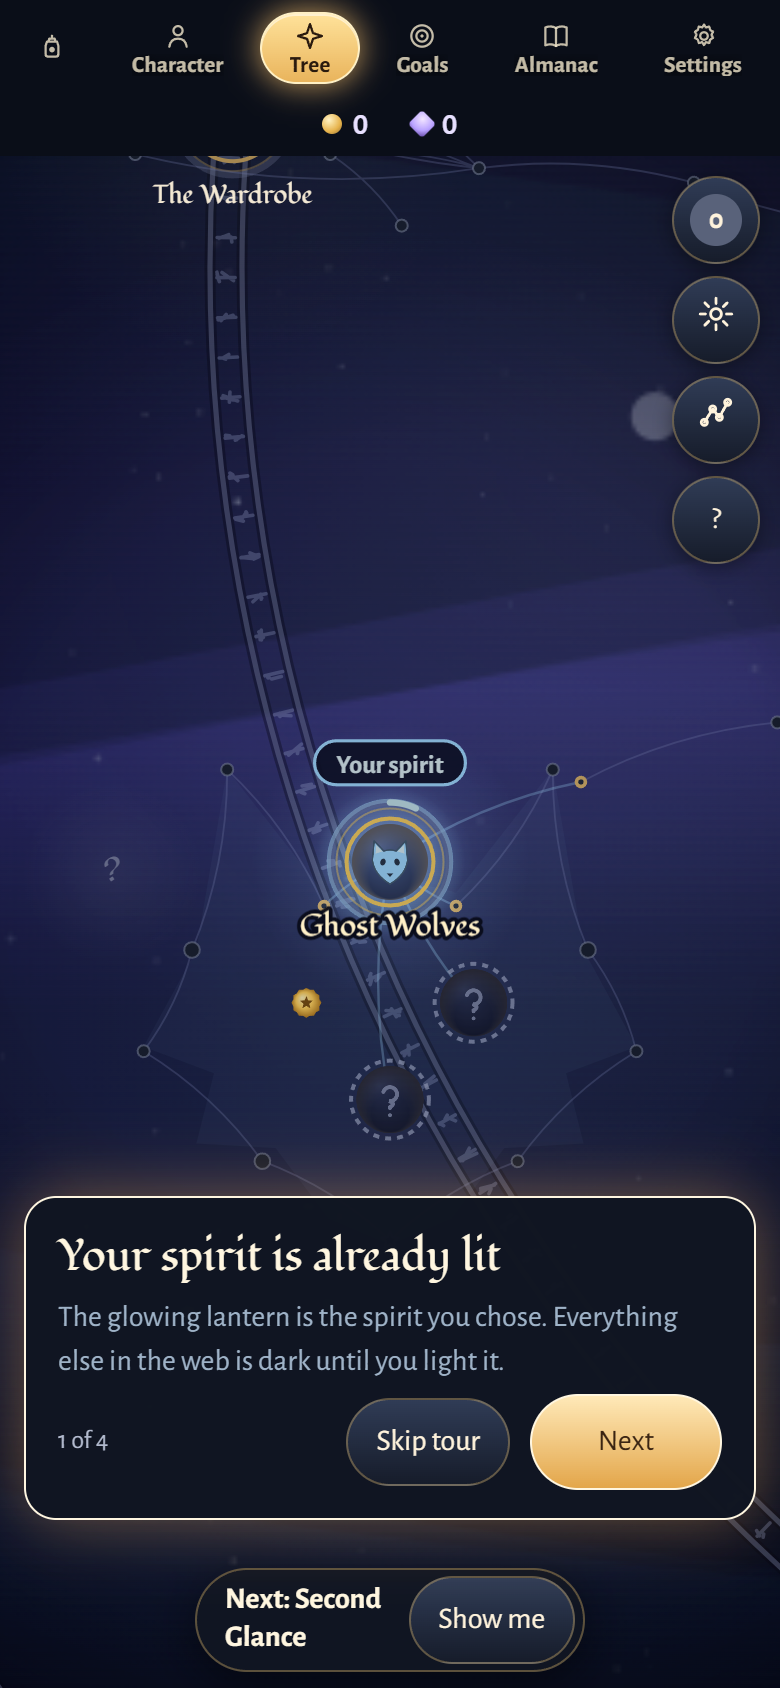
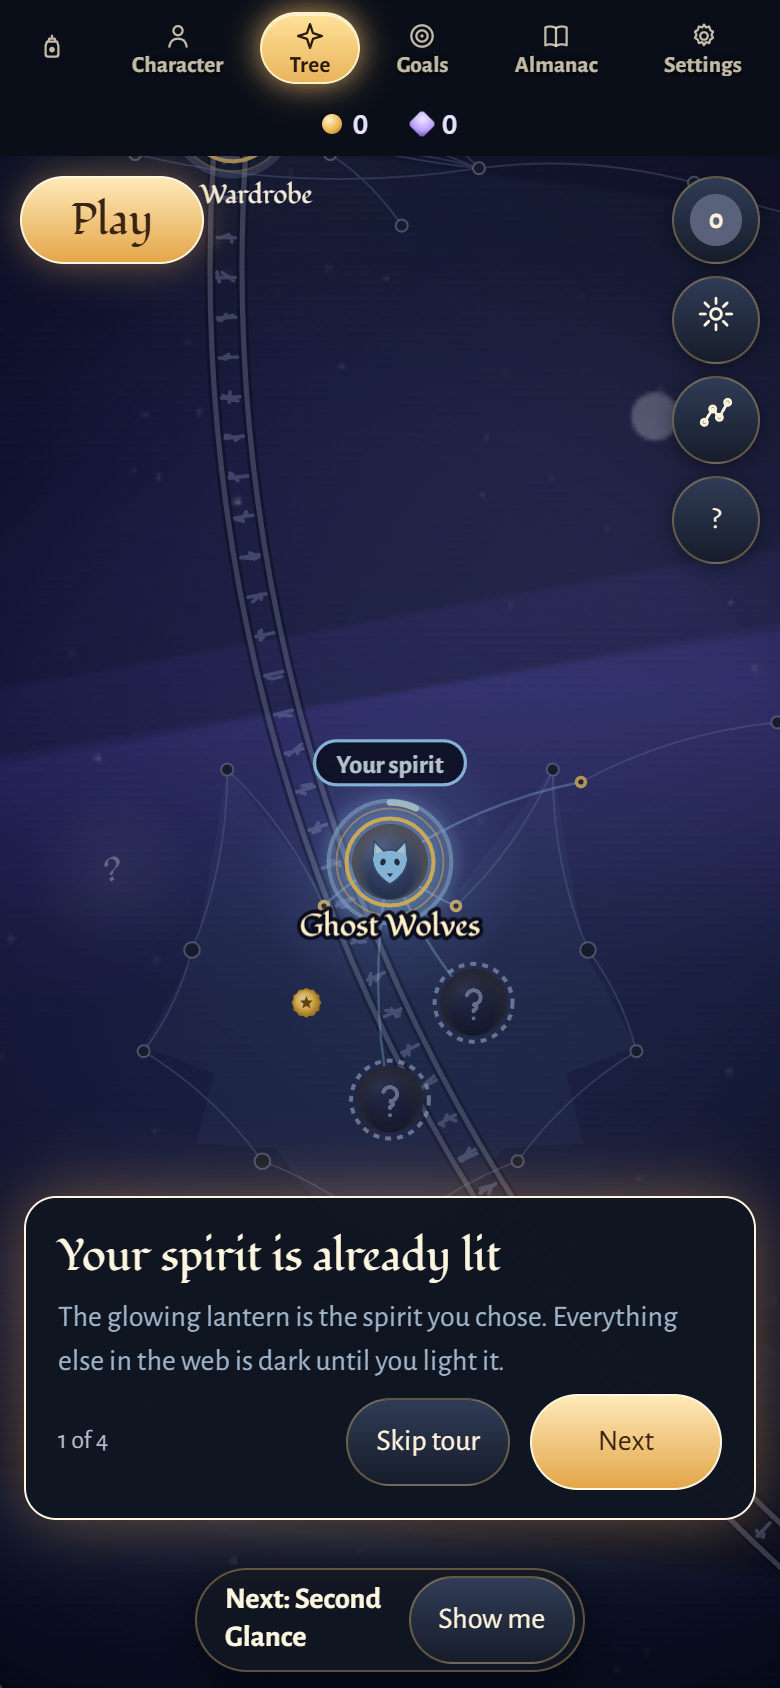
Q8: a11y + phone Play pill + save race fix: sr summary line, focus order, CVD and hostile sweeps, a11y smoke, real-phone checklist

Changed region(s): [[0.0, 0.0924, 0.2769, 0.1848]]

diff --git a/src/ui/treescreen.js b/src/ui/treescreen.js
@@ -126,7 +126,7 @@ export class TreeScreen {
     this.resetNotice();
     this.pulseStart(api.pulseIds);
     if (!this.tourStart() && !(this.pulseSet && this.pulseSet.size)) this.showTip(false); // coming back from a run: the moved lanterns are the message, no welcome card
-    this.mapEl.focus({ preventScroll: true });
+    if (!this.tourOpen) this.mapEl.focus({ preventScroll: true }); // the tour's Next button keeps the focus while the tour is up (keyboard users press Enter)
   }
 
   close() {
@@ -316,6 +316,8 @@ export class TreeScreen {
     this.toastEl.setAttribute('role', 'status');
     this.noticeEl = el('div', 'ts-notice'); // the one-time 'the web was rewoven' notice (S1 restart); filled by resetNotice()
     this.noticeEl.setAttribute('role', 'status');
+    this.sumEl = el('div', 'ts-sr'); // the state of the web in one line for screen readers (re-read only when it changes)
+    this.sumEl.setAttribute('role', 'status'); this.sumEl.setAttribute('aria-live', 'polite');
     this.srEl = el('div', 'ts-sr');
     this.srEl.setAttribute('aria-live', 'polite');
 
@@ -337,8 +339,10 @@ export class TreeScreen {
     const nl = el('div', 'ts-nl'); nl.append(el('span', null, 'Next'), el('span', null, 'lights'));
     this.nextList = el('div', 'ts-nlist');
     this.nextEl.append(nl, this.nextList);
-    root.append(this.buildHeroPanel(), this.nextEl);
-    root.append(map, panel, step, this.edge, zoom, this.scrim, idxSheet, helpSheet, tip, this.toastEl, this.noticeEl, this.tourEl, this.srEl, this.hoverEl, keys);
+    this.playBtn = btn('ts-primary ts-playbtn', 'Play'); // phones and narrow windows have no hero panel: Play is a pill at the top left (same loadout flow)
+    this.playBtn.addEventListener('click', () => { if (this.host.sound) this.host.sound('ui_step'); this.host.navTo('play'); });
+    root.append(this.buildHeroPanel(), this.playBtn);
+    root.append(map, panel, this.nextEl, step, this.edge, zoom, this.scrim, idxSheet, helpSheet, tip, this.toastEl, this.noticeEl, this.tourEl, this.sumEl, this.srEl, this.hoverEl, keys);
     layer.append(root);
     this.bindInput(map);
   }
@@ -388,6 +392,7 @@ export class TreeScreen {
     this.glassEl.p.style.display = (s.dawnglass || 0) > 0 ? '' : 'none';
     const a = this.model.readyList().length;
     this.lightN.textContent = String(a);
+    this.sumLine(a);
     this.lightN.classList.toggle('zero', !a);
     this.nextBtn.setAttribute('aria-label', `${a} lantern${a === 1 ? '' : 's'} you can light now. Show the best one`);
     this.respecBtn.disabled = !Object.keys(s.tree || {}).some((id) => this.def.nodes[id] && !this.def.nodes[id].permanent);
@@ -398,6 +403,15 @@ export class TreeScreen {
     if (this.selected) this.renderPanel();
     this.itemSig = '';
     this.dirty();
+  }
+
+  /** 'N lanterns lit of T, M can light now': one polite line, only re-announced when the numbers change. */
+  sumLine(ready) {
+    const m = this.model; let lit = 0, tot = 0;
+    for (const id of this.def.list) { if (this.def.nodes[id].teaser) continue; tot++; if (m.lit(id)) lit++; }
+    const txt = `${fmtN(lit)} of ${fmtN(tot)} lanterns lit, ${fmtN(ready)} can light now.`;
+    if (txt !== this.sumTxt) { this.sumTxt = txt; this.sumEl.textContent = txt; }
+    this.mapEl.setAttribute('aria-describedby', 'ts-sum-line'); this.sumEl.id = 'ts-sum-line';
   }
 
   // ------------------------------------------------------------------ camera

diff --git a/src/ui/treescreen.css b/src/ui/treescreen.css
@@ -178,13 +178,13 @@
 .ts-hl { font: 17px var(--font-display); color: #cdbf95; }
 .ts-hcv { width: 200px; height: 215px; margin-top: -4px; border-radius: 16px; }
 .ts-swap { display: flex; gap: 8px; margin-top: -4px; }
-.ts-swapb { width: 40px; height: 40px; min-width: 40px; min-height: 40px; padding: 0; border-radius: 50%; border: 2px solid #3b4670; background: #171d3c; overflow: hidden; position: relative; }
+.ts-swapb { width: 44px; height: 44px; min-width: 44px; min-height: 44px; padding: 0; border-radius: 50%; border: 2px solid #3b4670; background: #171d3c; overflow: hidden; position: relative; }
 .ts-swapb.on { border-color: #ffd27a; box-shadow: 0 0 10px rgba(255, 210, 122, .5); }
 .ts-swapb.asleep { opacity: .7; cursor: default; }
 .ts-swapb canvas { width: 100%; height: 100%; display: block; }
 .ts-hname { font: 36px/1 var(--font-display); color: #fff1cf; }
 .ts-hsub { font-size: 13px; color: #d6b36a; margin-bottom: 4px; }
-.ts-hbtn { width: 100%; padding: 9px 0; min-height: 40px; border-radius: 11px; border: 1px solid rgba(255, 210, 122, .3); background: linear-gradient(#232b52, #161c3b); font-weight: 600; font-size: 14px; }
+.ts-hbtn { width: 100%; padding: 9px 0; min-height: 44px; border-radius: 11px; border: 1px solid rgba(255, 210, 122, .3); background: linear-gradient(#232b52, #161c3b); font-weight: 600; font-size: 14px; }
 .ts-hbtn.ts-hplay { background: linear-gradient(#ffd98a, #f1a94d); color: #3a2308; font: 24px var(--font-display); padding: 6px 0; border-color: #ffe6ae; }
 .ts-hcoins { margin-top: auto; display: flex; justify-content: space-around; width: 100%; padding: 9px 6px; border-radius: 14px; border: 1px solid var(--ts-line); background: rgba(8, 12, 28, .7); font-weight: 700; }
 .ts-hc { display: inline-flex; align-items: center; gap: 6px; }
@@ -215,7 +215,7 @@
 .ts-ctext { flex: 1; min-width: 0; font-size: 14px; }
 .ts-ctext b { display: block; font-weight: 700; }
 .ts-ctext span { color: #cfd7f3; font-size: 13px; }
-.ts-clink { min-height: 36px; padding: 4px 10px; font-size: 13px; }
+.ts-clink { min-height: 44px; padding: 4px 12px; font-size: 13px; }
 .ts-tour { position: absolute; z-index: 12; left: 50%; bottom: 96px; transform: translateX(-50%); width: min(460px, calc(100% - 24px)); background: var(--ts-panel); border: 1px solid var(--ts-wick); border-radius: 16px; padding: 14px 16px; box-shadow: 0 0 34px #ffb35a66; display: none; }
 .ts-tour.open { display: block; }
 .ts-tourh { font: 22px var(--font-display); color: var(--ts-wick); margin-bottom: 4px; }
@@ -227,3 +227,7 @@
 .ts.ts-calm .ts-tourhl { animation: none; }
 @keyframes ts-tourpulse { 50% { outline-color: #fff1c4; } }
 .ts.ts-port .ts-tour, .ts.ts-short .ts-tour { bottom: 84px; }
+
+/* Play on small screens (the hero panel, with its own Play, is desktop only) */
+.ts-playbtn { display: none; }
+.ts:not(.ts-hero-on) .ts-playbtn { display: flex; align-items: center; justify-content: center; position: absolute; left: calc(10px + var(--sa-l, 0px)); top: 10px; z-index: 6; flex: none; min-width: 92px; min-height: 44px; padding: 4px 22px; font: 22px var(--font-display); box-shadow: 0 0 18px #ffb35a66; }

diff --git a/src/ui/ui.js b/src/ui/ui.js
@@ -83,7 +83,7 @@ export class UI {
     this.tree = new TreeScreen(this, portraitImage, enemyPortrait);
     this.buildHud();
     this.nav = null;
-    if (root && root.appendChild && typeof document !== 'undefined' && document.createElement) { this.nav = buildMenuNav(document, (id) => this.navTo(id)); root.appendChild(this.nav.root); }
+    if (root && root.appendChild && typeof document !== 'undefined' && document.createElement) { this.nav = buildMenuNav(document, (id) => this.navTo(id)); root.insertBefore(this.nav.root, root.firstChild || null); } // first in the page: the tab row is the first thing a keyboard or screen-reader user meets, as it is the first thing on screen
     window.addEventListener('keydown', (e) => this.onKey(e));
     window.addEventListener('keydown', (e) => this.onDeskKey(e)); // DESKTOP D5: 1-6 tabs, F full screen (through the key map)
   }

diff --git a/src/save/store.js b/src/save/store.js
@@ -65,7 +65,7 @@ export class SaveStore {
     else if (rb && rb.code === 'future') this._lock(bak);
     else if (rb && rb.ok) res = rb;
     this.data = res ? res.save : defaultSave();
-    this.stamp = this.data.updatedAt;
+    this.stamp = res ? this.data.updatedAt : 0; // a fresh default copy was never read from storage: ANY stored copy is newer than it (two tabs opened in the same millisecond used to tie on the default's creation time)
     if (this.forceReadOnly && !this.readOnly) this._lock(main !== null ? main : bak);
     return this.data;
   }

diff --git a/docs/REAL-PHONE-CHECKLIST.md b/docs/REAL-PHONE-CHECKLIST.md
@@ -1,0 +1,47 @@
+# Real-phone checklist: the Lantern Web (tree home) and what-moved screens
+
+For Matt, on a real phone, test link = the dev build (dev.hollowlight-12n.pages.dev, unlisted). Ten minutes, one pass. Tick, write what felt wrong in one line.
+What the computer already checked (headless, so not a substitute): every button in the tree and the tour is at least 44 px, Tab / keyboard path, Calm loop stops, 0 console errors, tree draw 1.3 ms desktop (9 ms with a 4x slowed CPU).
+
+## 0. Before you start
+- [ ] Note the phone model, browser, battery %, and whether Battery Saver is on.
+- [ ] Use a lantern with some progress (not brand new) AND, separately, a brand new lantern (Settings > Light a new lantern).
+
+## 1. Brand new lantern (the first minute)
+- [ ] Title > Play: you pick a hero, then a spirit (nothing preselected), then land on the tree with your spirit lit and a small tour card.
+- [ ] The tour card: 4 steps, Next and Skip tour are easy to hit with a thumb, the card does not hide what it points at.
+- [ ] Back out of the tour, tap the gold Play pill at the top left of the tree, pick the hero and spirit again, walk: does the extra step feel like too much? (Note it: the recommended trim is skipping the hero step when only one hero is awake.)
+
+## 2. Touch targets and layout (tree)
+- [ ] Every button is easy to hit first time: the right rail (+ - sun path ?), the can-light badge, Skill tabs, bottom sheet buttons (Light it, Pin goal, the arrow).
+- [ ] Tap a lantern: the bottom sheet opens small (name, state, price); the arrow expands it to the condition tile (picture, "37 of 1,000 grave crows", In the Almanac).
+- [ ] Nothing important sits under the notch, the home bar or the rounded corners (portrait AND landscape).
+- [ ] Landscape: no clipped text; the sheet is usable.
+
+## 3. Pinch zoom, pan, performance
+- [ ] Two-finger pinch zooms smoothly; dragging pans; it never feels stuck or jumpy. Zoom all the way out (rings and names stay readable?) and all the way in.
+- [ ] Double-tap on empty sky zooms in; tapping a crowded spot zooms in on the cluster instead of guessing.
+- [ ] Open the tree, drag around for 30 seconds on the busiest part (the hub with many lit lanterns): note any stutter. `?perf=1` on the link shows frame ms and the worst frame.
+- [ ] Rotate the phone while the tree is open: the view re-fits, nothing breaks.
+
+## 4. Heat and battery (the tree is a canvas that redraws while things shimmer)
+- [ ] Leave the tree open and idle for 5 minutes with the screen on: the phone should not get noticeably warm. The ring shimmer is the only continuous motion (and it stops with Calm motion).
+- [ ] Note battery % at the start and after 10 minutes of the tree + a run.
+- [ ] Battery Saver ON: everything still works (the browser may slow animation: note it).
+- [ ] Settings > Calm motion ON: no shimmer, no pulses, no moving dashes, the camera jumps instead of flying, the tour card just appears. (Also try the phone's own Reduce Motion setting.)
+
+## 5. After a run (what moved)
+- [ ] Die once, win once. The results card shows a "Next lights" block: chips of what you gained, lanterns that became affordable, bars that grew, the closest unlocks. It fits on one screen (portrait). In landscape it may drop: tell me if that is annoying.
+- [ ] Tap Tree: the camera flies to what moved and rings it for a few seconds. Calm: it jumps and the ring is steady.
+- [ ] Pause during a run: the same list (read only, nothing to tap) shows the closest unlocks.
+
+## 6. Colour and reading
+- [ ] Threads: lit (bright, glowing), can light (medium), locked (faint). Can you tell the three apart outside in daylight? Low brightness?
+- [ ] Phone's colour-blind or greyscale mode (Accessibility): the three thread states and the chips still read.
+- [ ] Text size: set the phone to a large text size; the tour card, the sheet and the results list still fit.
+
+## 7. Screen reader (if you use one)
+- [ ] TalkBack / VoiceOver: opening the tree reads "N of M lanterns lit, K can light now"; selecting a lantern reads its name, state and effect; buying says it is lit.
+
+## 8. Report back
+Phone + browser, anything that stuttered, anything too small, anything that got hot, anything that made you stop. One line each is plenty.

diff --git a/docs/QUEUE.md b/docs/QUEUE.md
@@ -533,3 +533,4 @@ Tree rework state: look LOCKED from the sandbox (night sky, rune rings, Tune val
 - Q5a + Q5c BUILT (2026-11-12, wip/tree-q1, not merged, not shown; UI flow only, saves and sim untouched; LOCKED Reopened 2026-11-12 records the FD2/FD4 reopen): Title Play = the tree home; a new profile (and a new / replaced lantern) picks 1 hero + 1 of the offered spirits first (nothing preselected) and lands on the tree with its spirit lit and the tour; Play on the tree runs the unchanged 3-step loadout, Back returns to the tree (leaveLoadout), Esc from the tree = title, the Almanac opens over the tree and returns to it; hostile loadout falls back to an awake hero. Entry points checked: title Play / Skill Tree button, tab row, profile chip, results Tree (Continue, pulse), night-gate link, pause (read-only Next lights, by design). Intro cards untouched (tests/intros). Tests 1418 green (tests/q5.test.mjs), audit 0, scripts/tree-smoke.mjs + scripts/flow-smoke.mjs (real built dist, desktop + phone) green, shots docs/screenshots/tree-look/*-flow-*. NOTE for Matt: a brand-new player now goes Title -> starter pick -> tree home -> Play -> hero step -> spirit step -> run (two more taps than before: the tour and the Play button explain it); if that feels slow, the recommended trim is to skip the hero step when only one hero is awake (not built, needs your yes).
 
 - 2026-11-12 DECISION FOR MATT (not blocking): new player flow is title > starter pick (hero, spirit) > tree home > Play > hero step > spirit step; two extra taps. Recommended: skip the loadout hero step when only one hero is awake. Changes locked 3-step loadout.
+- Q8 + FLAKE FIX (2026-11-12, wip/tree-q1, not merged, not shown): (1) FLAKE CAUSE FOUND, a real (tiny) race in SaveStore: a fresh lantern's default copy carried updatedAt = creation time, so a second tab opened later (same millisecond as the first tab's first save) tied with it and overwrote instead of adopting. Fix: a copy that was never read from storage has stamp 0 (src/save/store.js); tests/savereview.test.mjs 'L8b' fails before the fix and passes after. (2) a real phone bug found by the keyboard/phone sweep: with Title Play = tree and no hero panel on phones, a phone player had NO way to start a run from the tree: added a Play pill (top left, 44 px+) on phones / narrow windows. (3) a11y: screen-reader line 'N of M lanterns lit, K can light now' (polite live region, aria-describedby on the map, only re-announced when it changes), focus order fixed (the tab row is now first in the page, then hero panel, map, Next lights, rail), the tour's Next button keeps focus (the map no longer steals it), 44 px for the condition-tile link, swap row and hero buttons, visible focus on every stop, Calm path verified on the real build (no animation loop idle, steady pulse ring). (4) colour-blind: tests/cvd.test.mjs (protan / deutan / tritan: lit, available and locked threads differ in lightness by >= 25 / >= 4 / >= 12 L*, plus width and glow; chips and captions >= 7:1). (5) hostile sweep tests/q8.test.mjs (restart notice, notes, hints, intros, chars, loadout, what-moved). (6) fit-audit menu clean at 375x812, 360x640, 844x390, 1280x720d; scripts/a11y-tree-smoke.mjs (20 checks) on the built dist; npm audit 0. (7) docs/REAL-PHONE-CHECKLIST.md for Matt. Q6 check: region names (FAR / MID / NEAR, tool coin names, heart labels), backbone replaced by real threads, and Far Hollow (a dim 'The Far Hollow' medallion plus the reserved far-slot mist and the 'Beyond' line) were all covered by the look port: nothing left. Q7 untouched (needs Matt).
